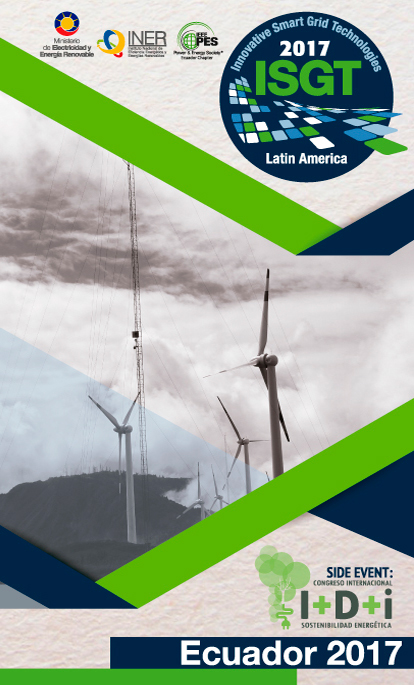
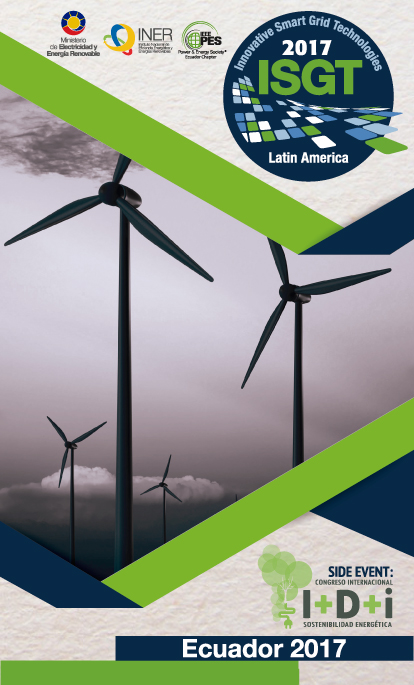
fix homepage

diff --git a/src/pages/home/home.html b/src/pages/home/home.html
@@ -1,6 +1,6 @@
 <ion-title>Congreso INER 2017</ion-title>
 
 <ion-content text-center>
-      <img *ngIf="small" alt="INER Ecuador" src="./../../assets/img/portadilla_vertical.jpg"/>
-      <img *ngIf="!small" alt="INER Ecuador" src="./../../assets/img/portadilla_horizontal.jpg"/>
+      <img style="height: 99%" *ngIf="small" alt="INER Ecuador" src="./../../assets/img/portadilla_vertical.jpg"/>
+      <img style="height: 99%" *ngIf="!small" alt="INER Ecuador" src="./../../assets/img/portadilla_horizontal.jpg"/>
   </ion-content>
